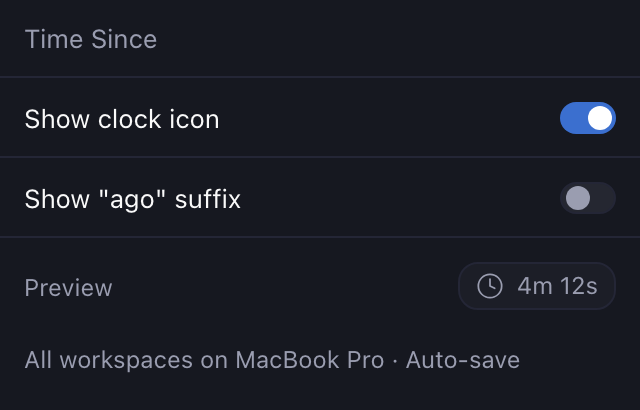
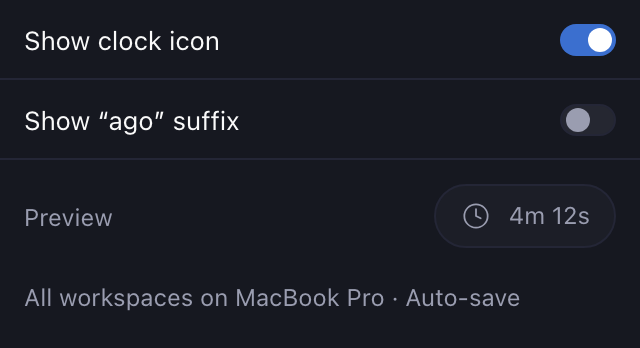
fix(time-since): options preview matches the pill, no heading; bump to 1.0.0 (#77)
Time Since Options draws its preview at Paseo's composer pill size and drops
its faint heading, since the tab already names the panel. The loading spinner
gets padding, and the load error lines up with Retry.

diff --git a/time-since/client/settings-panel.tsx b/time-since/client/settings-panel.tsx
@@ -27,16 +27,10 @@ export function TimeSinceOptionsPanel({ theme, host }: PluginWorkspacePanelProps
       style={{ flex: 1, backgroundColor: colors.surface0 }}
       contentContainerStyle={{ paddingBottom: 16 }}
     >
-      <View style={{ paddingHorizontal: 12, paddingVertical: 10, borderBottomWidth: 1, borderBottomColor: colors.border }}>
-        <Text accessibilityRole="header" style={{ color: colors.foregroundMuted, fontSize: 13, lineHeight: 18 }}>
-          Time Since
-        </Text>
-      </View>
-
-      {!settings && query.isPending ? <ActivityIndicator color={colors.foregroundMuted} accessibilityLabel="Loading options" /> : null}
+      {!settings && query.isPending ? <ActivityIndicator color={colors.foregroundMuted} accessibilityLabel="Loading options" style={{ padding: 12 }} /> : null}
       {query.isError ? (
         <View style={{ gap: 8, padding: 12 }}>
-          <Text accessibilityRole="alert" style={{ color: colors.statusDanger, fontSize: 12, lineHeight: 18, padding: 12 }}>
+          <Text accessibilityRole="alert" style={{ color: colors.statusDanger, fontSize: 12, lineHeight: 18 }}>
             Could not load options. Try again.
           </Text>
           <Pressable accessibilityRole="button" onPress={() => void query.refetch()} style={{ paddingVertical: 10 }}>
@@ -49,7 +43,7 @@ export function TimeSinceOptionsPanel({ theme, host }: PluginWorkspacePanelProps
         <>
           {([
             ["showIcon", "Show clock icon"],
-            ["showAgo", 'Show "ago" suffix'],
+            ["showAgo", "Show “ago” suffix"],
           ] as const).map(([key, label]) => (
             <Pressable
               key={key}
@@ -89,15 +83,20 @@ export function TimeSinceOptionsPanel({ theme, host }: PluginWorkspacePanelProps
           ))}
           <View style={{ flexDirection: "row", alignItems: "center", justifyContent: "space-between", gap: 12, paddingHorizontal: 12, paddingVertical: 12 }}>
             <Text style={{ color: colors.foregroundMuted, fontSize: 12 }}>Preview</Text>
-            <View style={{ alignSelf: "flex-start", flexDirection: "row", alignItems: "center", gap: 6, backgroundColor: colors.surface1, borderColor: colors.border, borderWidth: 1, borderRadius: 10, paddingHorizontal: 8, paddingVertical: 3 }}>
-              {settings.showIcon ? <Icon name="Clock" size={14} color={colors.foregroundMuted} /> : null}
+            {/* Paseo's composer pill: 32 tall, 16 radius, 12 px sides, 8 px gap, a 14 px icon in a 16 px box. */}
+            <View style={{ alignSelf: "flex-start", flexDirection: "row", alignItems: "center", gap: 8, minHeight: 32, backgroundColor: colors.surface1, borderColor: colors.border, borderWidth: 1, borderRadius: 16, paddingHorizontal: 12, paddingVertical: 4 }}>
+              {settings.showIcon ? (
+                <View style={{ width: 16, height: 16, alignItems: "center", justifyContent: "center" }}>
+                  <Icon name="Clock" size={14} color={colors.foregroundMuted} />
+                </View>
+              ) : null}
               <Text style={{ color: colors.foregroundMuted, fontSize: 12, lineHeight: 16 }}>4m 12s{settings.showAgo ? " ago" : ""}</Text>
             </View>
           </View>
         </>
       ) : null}
       <Text accessibilityLiveRegion="polite" style={{ color: colors.foregroundMuted, fontSize: 12, lineHeight: 18, paddingHorizontal: 12, paddingTop: 4 }}>
-        {mutation.isPending ? "Saving..." : `All workspaces on ${host.label} · Auto-save`}
+        {mutation.isPending ? "Saving…" : `All workspaces on ${host.label} · Auto-save`}
       </Text>
       {mutation.isError ? (
         <Text accessibilityRole="alert" style={{ color: colors.statusDanger, fontSize: 12, lineHeight: 18, padding: 12 }}>

diff --git a/time-since/README.md b/time-since/README.md
@@ -40,6 +40,14 @@ pick them up when they next load the options or reload the plugin.
 
 ## Changelog
 
+### 1.0.0
+
+- Version 1.0. Nothing you use changes. From now on, a new first number means an update breaks something, a new middle number means a new feature, and a new last number means a fix.
+- The preview in Time Since Options is the same size and shape as the real pill above the message box. It used to be a smaller pill.
+- Time Since Options no longer starts with a faint "Time Since" heading. The tab already names the panel.
+- While the options load, the spinner no longer touches the tab bar. If they fail to load, the error lines up with its Retry button.
+- New screenshot of Time Since Options in this README.
+
 ### 0.4.0
 
 - Needs Paseo 0.11 or later. The plugin now carries its own icon and screenshots, and Paseo 0.9 and 0.10 refuse to load a plugin that does. On an older Paseo, the version you already have keeps working.
